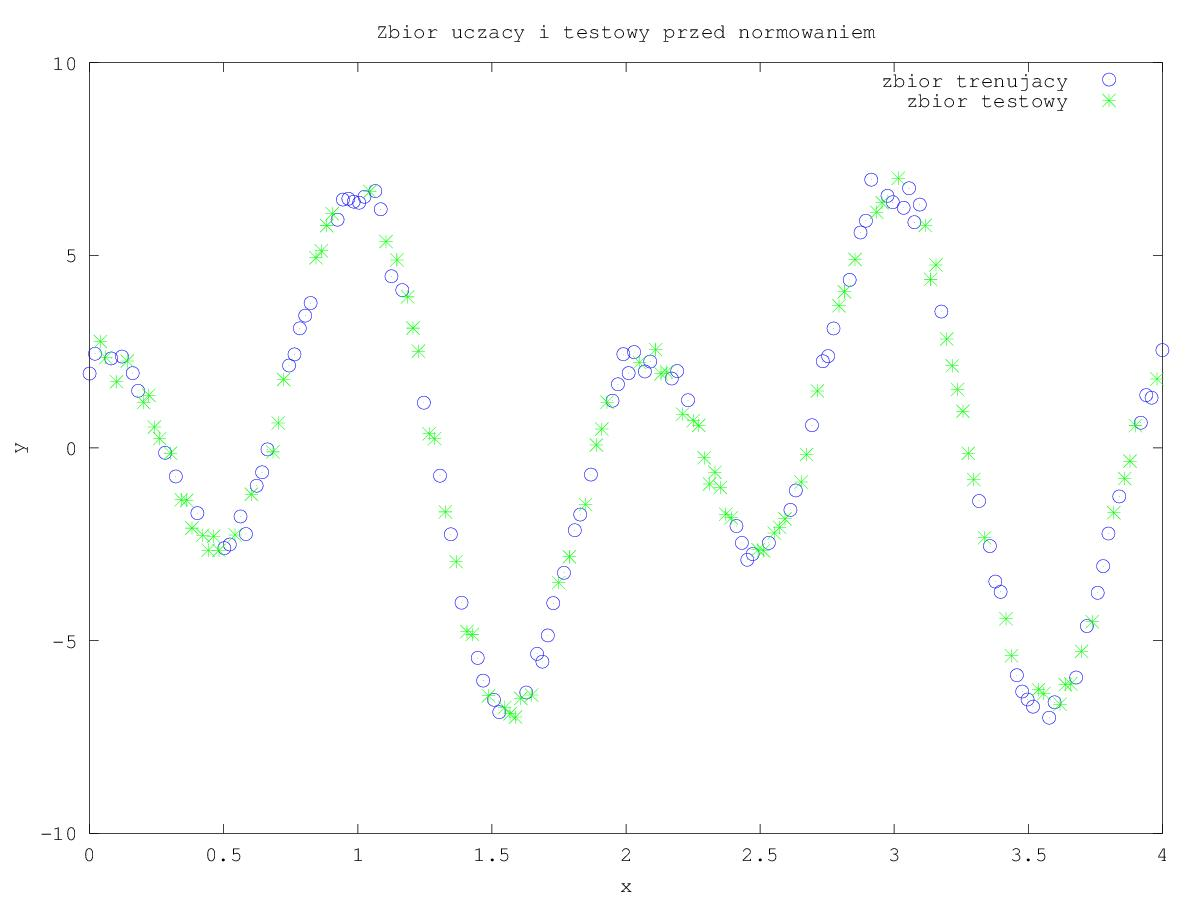
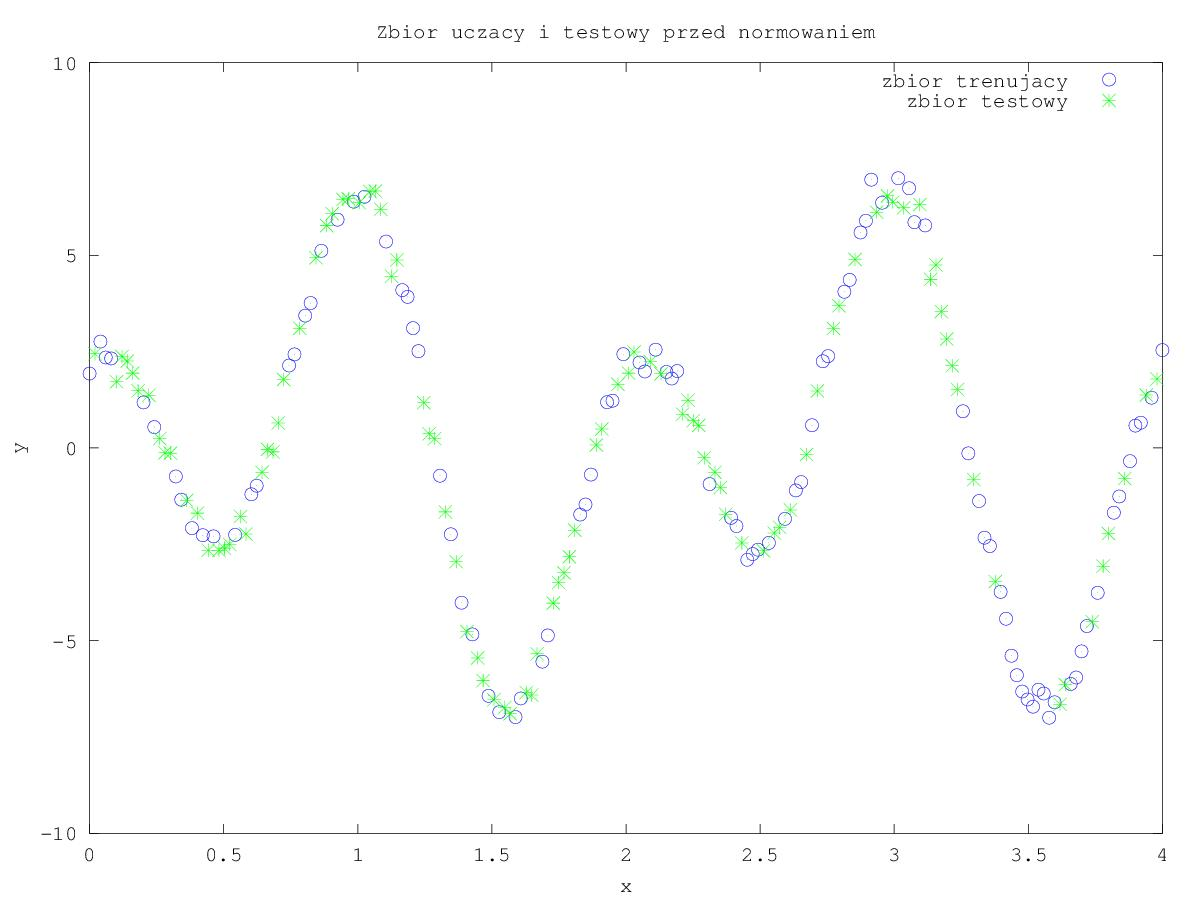
deadline: 5

diff --git a/SNN/KK_snn.m b/SNN/KK_snn.m
@@ -56,10 +56,12 @@ disp('Wizualizacja danych: zrobiona');
 logs = fopen('logs.txt', "w+");
 %-----------------------------------------
 % dobór liczby neuronów metodą porównania błędu śrenio-kwadratowego
+% oraz metoda wirtualnej skrajnej ocenykrzyzowej
 
 mse_logs = fopen('mse.txt', "w+");
-mHiddenNeuronMax = 15;
-mTestNumber = 25;
+loo_logs = fopen('loo.txt', "w+");
+mHiddenNeuronMax = 10;
+mTestNumber = 15;
 
 mErrorTrain = zeros(mHiddenNeuronMax, mTestNumber);
 mErrorTest = zeros(mHiddenNeuronMax, mTestNumber);
@@ -70,6 +72,7 @@ mErrorTestMin = zeros(mHiddenNeuronMax, 1);
 
 for neuronNum = 1:1:mHiddenNeuronMax
 
+    fprintf(loo_logs, '%i; ', neuronNum);
     for testNum = 1:1:mTestNumber
        
         mTrain = randSet(mTrain);
@@ -87,24 +90,22 @@ for neuronNum = 1:1:mHiddenNeuronMax
         rk = y - mTrain(:,2);
         rk_k = rk./(ones(size(h))-h);
         
-        % hkk wariancja
-        mHkkVar = sum((mTrain(:,2)-y).^2)/size(y,1)
-        
         w_hkk=sqrt(sum((q_N*ones(size(h))-h).^2)/N);
-        fputs(logs,  ['Wariancja hkk: ' num2str(w_hkk) ]);
-        %disp(['Wariancja wartosci hkk=' num2str(w_hkk)]);
-
+        fprintf(loo_logs, 'P %i: %i', testNum, rank_Z);
+        fprintf(loo_logs, 'P %i: %f', testNum, w_hkk);
+      
     end
     
     mErrorTrainAvr(neuronNum)=mean(mErrorTrain(neuronNum,:)');
     mErrorTestAvr(neuronNum)=mean(mErrorTest(neuronNum,:)');
     mErrorTrainMin(neuronNum)=min(mErrorTrain(neuronNum,:)');
     mErrorTestMin(neuronNum)=min(mErrorTest(neuronNum,:)');
-    
+     
     fprintf(mse_logs, '%i; %f; %f; %f; %f', neuronNum, mErrorTrainAvr(neuronNum), mErrorTestAvr(neuronNum), mErrorTrainMin(neuronNum), mErrorTestMin(neuronNum));
     fprintf(mse_logs, '\n');
-    
+    fprintf(loo_logs, '\n');
 end
+
 figure(5);
 x=linspace(1,mHiddenNeuronMax,mHiddenNeuronMax)
 plot(x,mErrorTrainAvr','o-r',x,mErrorTestAvr','o-g');
@@ -120,9 +121,13 @@ title ("Blad minimalny");
 legend('zbior trenujacy', 'zbior testowy');
 print -djpg "min_MSE.jpg";
 
+fclose(mse_logs);
+fclose(loo_logs);
+
 
 % symulacja 50 sieci z optymalna liczna neuronow
-file = fopen('parametry_sieci.txt','w');
+params_logs = fopen('params.txt', "w+");
+epu_logs = fopen('epu.txt', "w+");
 mHiddenNeuronOpt = 5;
 mTestNumber = 50;
 Ep=zeros(1,mTestNumber);
@@ -142,18 +147,23 @@ for testNum = 1:1:mTestNumber
         u_tmp = 1/N*sum(sqrt((N/q)*h));
         Ep(index) = Ep_tmp;
         u(index) = u_tmp;
-        %params = [net.IW{1}', net.b{1}, net.LW{2,1}' net.b{2}];
-        %fprintf(file,'%i; %f; ',params);
-        fprintf(file,'\n');
+        fprintf(epu_logs, '%i; %f; %f;', testNum, Ep_tmp, u_tmp);
+        fprintf(epu_logs, '\n');
+        
+        params = [net.b{1}' net.IW{1,1}' net.b{2} net.LW{2,1}];
+        fprintf(params_logs, '%f ;' , params);
+        fprintf(params_logs,'\n');
         index = index + 1;
     end 
 end
-fclose(file);
+
 Ep = Ep(1:index-1)
 u = u(1:index-1)
 plot(Ep,u,'.g');
 ylabel('u');
 xlabel('Ep');
 print -djpg "EpU.jpg";
+fclose(params_logs);
+fclose(epu_logs);
 
 disp('all done');

diff --git a/SNN/KK_snn_tests.m b/SNN/KK_snn_tests.m
@@ -1,0 +1,7 @@
+% Konrad Koryciński 
+% Projekt z przedmiotu SNN - aproksymacja
+
+clc;
+clear;
+
+disp('Start:');
